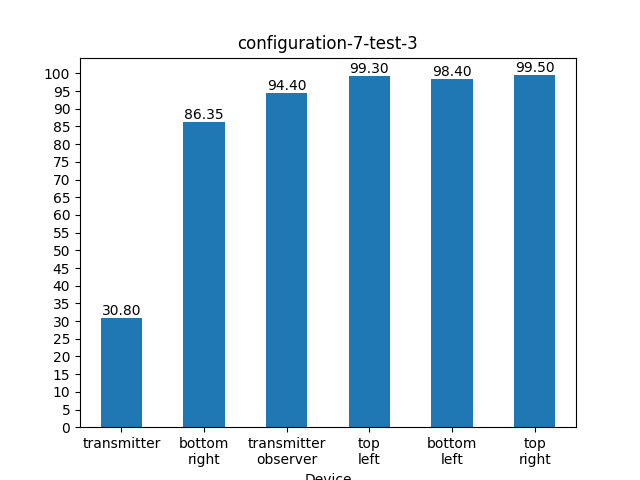
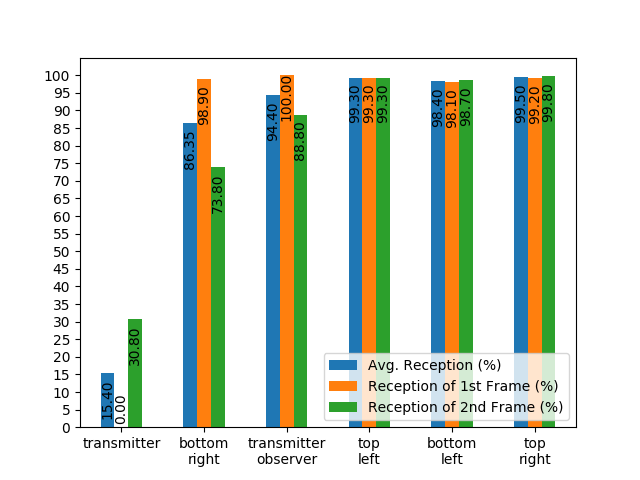
neaten up plotting of figures, operate on one config at a time only

diff --git a/results/analyse.py b/results/analyse.py
@@ -11,27 +11,32 @@ title_map = {
 
 tests_per_configuration = 3.0
 
-if len(sys.argv) == 1:
-    print("generating graphs for expected configurations and test folders")
-    for i in range(1, 5):
-        for j in range(1, 4):
-            extract_test_results(i, j)
+# if len(sys.argv) == 1:
+#     print("generating graphs for expected configurations and test folders")
+#     for i in range(1, 5):
+#         for j in range(1, 4):
+#             extract_test_results(i, j)
 
-elif len(sys.argv) == 3:
-    tests_per_configuration = 1.0
+if len(sys.argv) == 3:
     print("generating graphs configuration %s, test %s" % (sys.argv[1], sys.argv[2]))
     extract_test_results(sys.argv[1], sys.argv[2], "configuration-%s-test-%s" % (sys.argv[1], sys.argv[2]))
+else:
+    exit(-1)
 
 for config in summary.keys():
     dnames = []
     davgs = []
+    p1 = []
+    p2 = []
     for device in summary[config].keys():
         new_dname = device.replace("-","\n")
         dnames += [new_dname]
         avg = 0.0
         for test in summary[config][device].keys():
-            avg += float(summary[config][device][test])
-        avg /= tests_per_configuration
+            p1 += [summary[config][device][test]["p1"]]
+            p2 += [summary[config][device][test]["p2"]]
+            avg += float(summary[config][device][test]["avg"])
+        avg /= tests_per_configuration / 3.0
         davgs += [avg]
 
     spacing = [i for i in range(0,105,5)]
@@ -41,15 +46,25 @@ for config in summary.keys():
     else:
         title = title_map[config]
 
-    df = pd.DataFrame({'Device':dnames, 'Reliability': davgs})
-    plt = df.plot.bar(x='Device', y='Reliability', yticks=(spacing), title = title, rot=0, legend=False)
+
+    data_points = []
+    data_points += davgs
+    data_points += p1
+    data_points += p2
+
+    df = pd.DataFrame({"Avg. Reception (%)" : davgs,'Reception of 1st Frame (%)':p1, 'Reception of 2nd Frame (%)': p2}, index=dnames)
+    plt = df.plot.bar(yticks=(spacing), rot=0) #, legend=False , title = title,
+    plt.legend(loc='lower right')
     # print(str(plt))
     for idx, bar in enumerate(plt.patches):
         h = bar.get_height()
-        plt.text(bar.get_x() + bar.get_width()/2., 1.0*h, '%.2f' % float(davgs[idx]), ha='center', va='bottom')
+        if h < 13:
+            h = 14
+        plt.text(bar.get_x() + bar.get_width()/2., h - 13, '%.2f' % float(data_points[idx]), ha='center', va='bottom', rotation=90)
 
     fig = plt.get_figure()
-    fig.savefig(config)
+    # fig.set_figheight(8)
+    fig.savefig(config,dpi=100)
 
     # exit()
 print(summary)

diff --git a/results/util.py b/results/util.py
@@ -29,6 +29,8 @@ def extract_test_results(configuration_number, test_number, output_key = "", ext
             packets_seen = 0
             raw = {}
             processed = {}
+            p1 = 0
+            p2 = 0
 
             for l in lines:
                 l = l.strip("\n")
@@ -36,19 +38,26 @@ def extract_test_results(configuration_number, test_number, output_key = "", ext
 
                 if len(l) == 1:
                     continue
-                raw[l[0]] = [l[1], l[2]]
+
+                if device_name == "transmitter":
+                    raw[l[0]] = [l[1], l[2]]
+                    p1 += int(l[1])
+                    p2 += int(l[2])
+                else:
+                    #some dofus got the packing the wrong way round for observers...
+                    raw[l[0]] = [l[2], l[1]]
+                    p1 += int(l[2])
+                    p2 += int(l[1])
+
                 processed[l[0]] = int(l[1]) + int(l[2]) #
-                packets_seen += int(l[1])
-                packets_seen += int(l[2])
 
             if device_name not in summary[config_key].keys():
-                summary[config_key][device_name] = {}
+                summary[config_key][device_name] = {test_key:{}}
 
             if extract_raw:
                 summary[config_key][device_name]["processed"] = processed
                 summary[config_key][device_name]["raw"] = raw
 
-            if device_name == "transmitter":
-                summary[config_key][device_name][test_key] = float(packets_seen) / 1000.0 * 100.0
-            else:
-                summary[config_key][device_name][test_key] = float(packets_seen) / 2000.0 * 100.0
+            summary[config_key][device_name][test_key]["p1"] = float(p1) / 1000.0 * 100.0
+            summary[config_key][device_name][test_key]["p2"] = float(p2) / 1000.0 * 100.0
+            summary[config_key][device_name][test_key]["avg"] = ((float(p2) + float(p1))  / 2000.0) * 100.0
